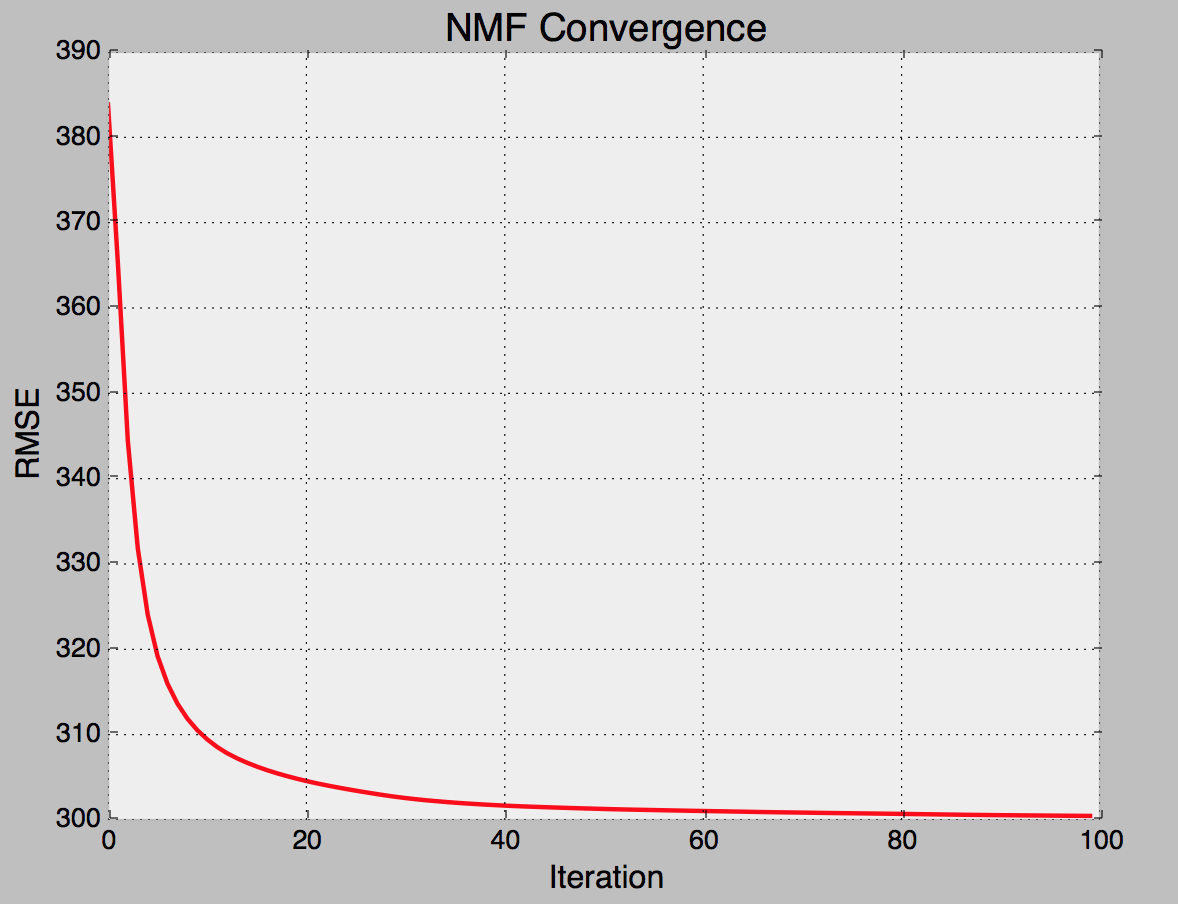
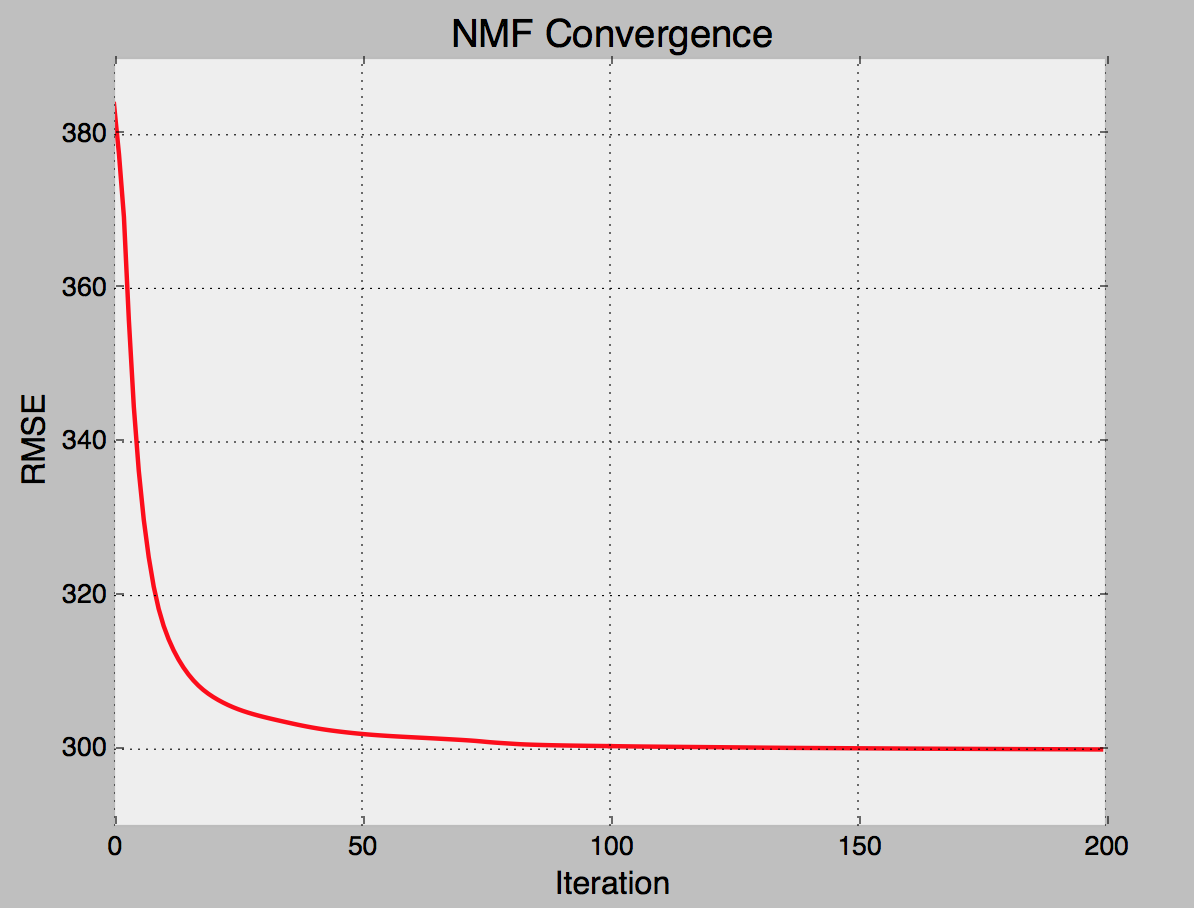
Update

Changed region(s): [[0.0, 0.0, 0.9474, 0.9912]]

diff --git a/p5.py b/p5.py
@@ -34,7 +34,7 @@ def NMF(V, r, max_iter=200, tolerance=1e-6, print_freq=20):
 			break
 		obj.append(d)
 	
-	return W, H, [obj[i] for i in range(len(obj)) if i % 2 == 0]
+	return W, H, obj
 
 def dist(V, U):
 	assert(V.shape == U.shape)
